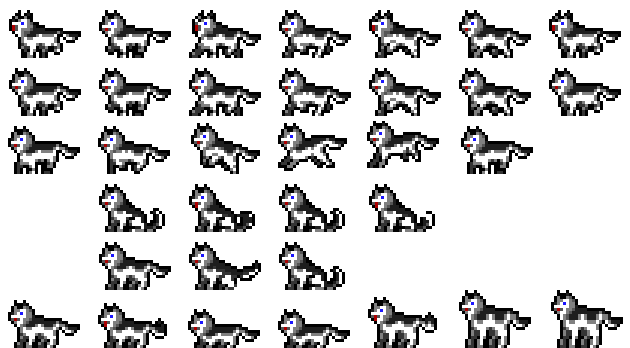
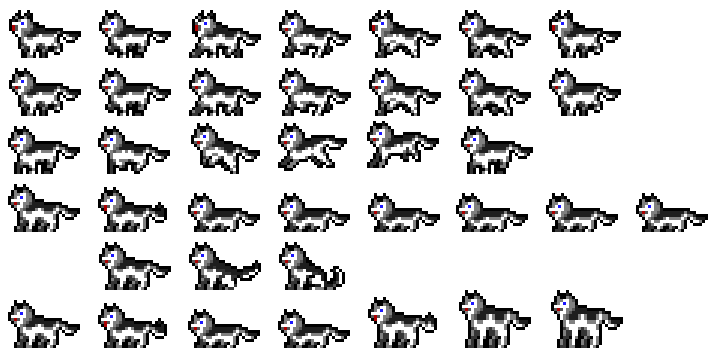
finish dog jump attack

diff --git a/huskydog.js b/huskydog.js
@@ -173,13 +173,15 @@ class GiantHuskydog {
         this.isBarking = false;
 
         // jump attack
-        this.jumpClock = new Clock(game, 5); // jump every 20 sec
+        this.jumpClock = new Clock(game, 20); // jump every 20 sec
         this.jumpingClock = new Clock(game, 0.6); // how long jumping lasts
-        this.airBorneClock = new Clock(game, 2); // how long airborne lasts
+        this.airBorneClock = new Clock(game, 1); // how long airborne lasts
+        this.landingClock = new Clock(game, 0.8);
         this.jumpY = 0;
         this.isJumping = false;
         this.isAirborne = false;
         this.isLanding = false;
+        this.isLanded = false;
         this.landCenter = null;
     };
 
@@ -191,6 +193,8 @@ class GiantHuskydog {
         this.animations.push(new Animator(ASSET_MANAGER.getAsset("./assets/enemy/huskydog.png"), this.width * 6, this.height * 2, this.width, this.height, 5, 0.1, 0, false, true));
         // jump
         this.animations.push(new Animator(ASSET_MANAGER.getAsset("./assets/enemy/huskydog.png"), this.width * 6, this.height * 5, this.width, this.height, 6, 0.1, 0, false, true));
+        // land
+        this.animations.push(new Animator(ASSET_MANAGER.getAsset("./assets/enemy/huskydog.png"), 0, this.height * 3, this.width, this.height, 8, 0.1, 0, false, false));
 
         //reversed images
         this.animations.push(new Animator(ASSET_MANAGER.getAsset("./assets/enemy/huskydog1.png"), 0, this.height, this.width, this.height, 6, 0.1, 0, false, false));
@@ -200,6 +204,8 @@ class GiantHuskydog {
         this.animations.push(new Animator(ASSET_MANAGER.getAsset("./assets/enemy/huskydog1.png"), 0, this.height * 2, this.width, this.height, 5, 0.1, 0, false, false));
         // jump
         this.animations.push(new Animator(ASSET_MANAGER.getAsset("./assets/enemy/huskydog1.png"), 0, this.height * 5, this.width, this.height, 6, 0.1, 0, false, false));
+        // land
+        this.animations.push(new Animator(ASSET_MANAGER.getAsset("./assets/enemy/huskydog1.png"), this.width * 7, this.height * 3, this.width, this.height, 8, 0.1, 0, false, true));
     }
 
     handleCollision(entity, scalarForce) {
@@ -248,8 +254,8 @@ class GiantHuskydog {
         });
 
         // === attack events ===
-        // this.barkClock.update();
-        // this.dashClock.update();
+        this.barkClock.update();
+        this.dashClock.update();
         this.jumpClock.update();
 
         // bark attack
@@ -311,27 +317,36 @@ class GiantHuskydog {
             }
         }
 
-        // jump attack
+        // jump attack sequence 
         if (!this.isDashing && !this.isBarking && !this.isJumping && this.jumpClock.isDone()) {
+            // initiate jumping
             this.isJumping = true;
             this.spdMul = 0;
         } else if (this.isJumping) {
             this.jumpingClock.update();
 
-            if (this.isLanding) {
-                if (this.jumpY < 0) {
-                    this.jumpY += 40;
-                } else {
+            if (this.isLanded) {
+                this.landingClock.update();
+
+                if (this.landingClock.isDone()) {
                     // attack end
-                    this.jumpY = 0;
                     this.isJumping = false;
                     this.isLanding = false;
+                    this.isLanded = false;
                     this.spdMul = 1;
                     this.collideDmg = 10;
                     
                     this.jumpClock.reset();
                     this.jumpingClock.reset();
                     this.airBorneClock.reset();
+                    this.landingClock.reset();
+                }
+            } else if (this.isLanding) {
+                if (this.jumpY < 0) {
+                    this.jumpY += 40;
+                } else {
+                    this.jumpY = 0;
+                    this.isLanded = true;
                 }
             } else if (this.isAirborne) {
                 this.airBorneClock.update();
@@ -346,13 +361,14 @@ class GiantHuskydog {
                 this.isAirborne = true;
                 this.collideDmg = 0;
                 this.landCenter = this.mickey.BB.center();
-                this.game.addAttackEntity(new Warning(this.game, this.landCenter.x, this.landCenter.y, 300, 200, 2.2,
+                this.game.addAttackEntity(new Warning(this.game, this.landCenter.x, this.landCenter.y, 500, 500, 1.2,
                         new Shockwave(
                             this.game, this.mickey, false, this.landCenter.x, this.landCenter.y,
-                            10, 0, 1, 1,             // attributes (dmg, spd, duration, pierce)
+                            10, 0, 0.8, 1,             // attributes (dmg, spd, duration, pierce)
                             this.mickey.BB.center() // destination vector (x, y)
                 )));
             } else {
+                // jumping up
                 if (this.jumpingClock.elapsed > 0.35) {
                     this.jumpY -= 40;
                 }
@@ -403,7 +419,9 @@ class GiantHuskydog {
             return;
         }
         if (this.flip == 0) {
-            if (this.isLanding || this.isJumping) {
+            if (this.isLanded) {
+                this.animations[4].drawFrame(this.game.clockTick, ctx, this.pos.x, this.pos.y + this.jumpY, this.width, this.height);
+            } else if (this.isLanding || this.isJumping) {
                 this.animations[3].drawFrame(this.game.clockTick, ctx, this.pos.x, this.pos.y + this.jumpY, this.width, this.height);
             } else if (this.isDashing) {
                 this.animations[2].drawFrame(this.game.clockTick, ctx, this.pos.x, this.pos.y, this.width, this.height);
@@ -414,14 +432,16 @@ class GiantHuskydog {
             }
         }
         else if (this.flip == 1) {
-            if (this.isLanding || this.isJumping) {
-                this.animations[7].drawFrame(this.game.clockTick, ctx, this.pos.x, this.pos.y + this.jumpY, this.width, this.height);
+            if (this.isLanded) {
+                this.animations[9].drawFrame(this.game.clockTick, ctx, this.pos.x, this.pos.y + this.jumpY, this.width, this.height);
+            } else if (this.isLanding || this.isJumping) {
+                this.animations[8].drawFrame(this.game.clockTick, ctx, this.pos.x, this.pos.y + this.jumpY, this.width, this.height);
             } else if (this.isDashing) {
-                this.animations[6].drawFrame(this.game.clockTick, ctx, this.pos.x, this.pos.y, this.width, this.height);
+                this.animations[7].drawFrame(this.game.clockTick, ctx, this.pos.x, this.pos.y, this.width, this.height);
             } else if (this.isBarking) {
-                this.animations[5].drawFrame(this.game.clockTick, ctx, this.pos.x, this.pos.y, this.width, this.height);
+                this.animations[6].drawFrame(this.game.clockTick, ctx, this.pos.x, this.pos.y, this.width, this.height);
             } else {
-                this.animations[4].drawFrame(this.game.clockTick, ctx, this.pos.x, this.pos.y, this.width, this.height);
+                this.animations[5].drawFrame(this.game.clockTick, ctx, this.pos.x, this.pos.y, this.width, this.height);
             }
         }
         if (PARAMS.DEBUG) {

diff --git a/characterAttacks.js b/characterAttacks.js
@@ -171,9 +171,16 @@ class Fireball extends Projectile {
 
 class Shockwave extends Projectile {
     constructor(game, mickey, isFriendly, x, y, projDamage, projSpeed, projDuration, projPierce, targetLocation) {
-        super(game, mickey, isFriendly, x, y, 34, 34, projDamage, projSpeed, projDuration, projPierce, true, targetLocation);
+        super(game, mickey, isFriendly, x, y, 113, 95, projDamage, projSpeed, projDuration, projPierce, true, targetLocation);
 
-        this.spritesheet = new Animator(ASSET_MANAGER.getAsset("./assets/attack/Fireball2.png"), 0, 235, this.width, this.height, 6, 0.05, 1, false, false);
+        this.spritesheet = new Animator(ASSET_MANAGER.getAsset("./assets/attack/shockwave.png"), 0, 0, this.width, this.height, 8, 0.1, 0, false, false);
+
+        this.sizeScale = 4;
+        this.width  *= this.sizeScale;
+        this.height *= this.sizeScale;
+
+        this.x -= this.width / 2;
+        this.y -= this.height / 2;
 
         //Rectangle bounding box
         this.offsetBB = { x: 0, y: 0, w: 0, h: 0 };
@@ -184,7 +191,6 @@ class Shockwave extends Projectile {
         this.spritesheet.drawFrame(this.game.clockTick, ctx, this.x, this.y, this.width, this.height);
 
         if (PARAMS.DEBUG) {
-            // draws bounding box
             this.BB.draw(ctx);
         }
     };

diff --git a/main.js b/main.js
@@ -31,6 +31,7 @@ const imageQueue = [
 	"./assets/attack/Fireball2.png",
 	"./assets/attack/blast.png",
 	"./assets/attack/red.png",
+	"./assets/attack/shockwave.png",
 	"./audio/kitchen.mp3",
 	"./audio/escape.mp3",
 	"./audio/hurt.mp3"
